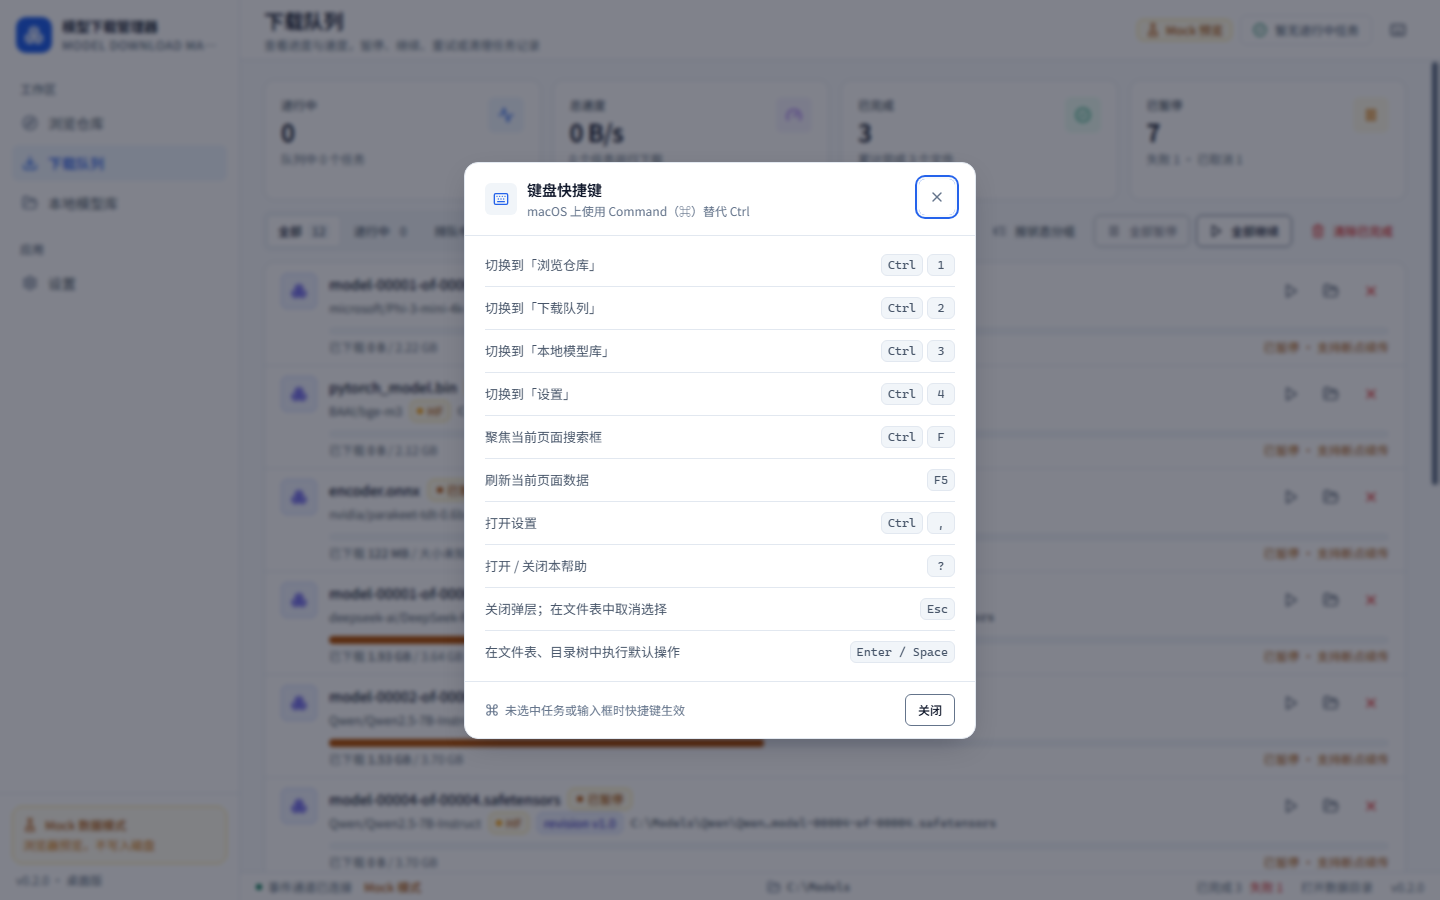
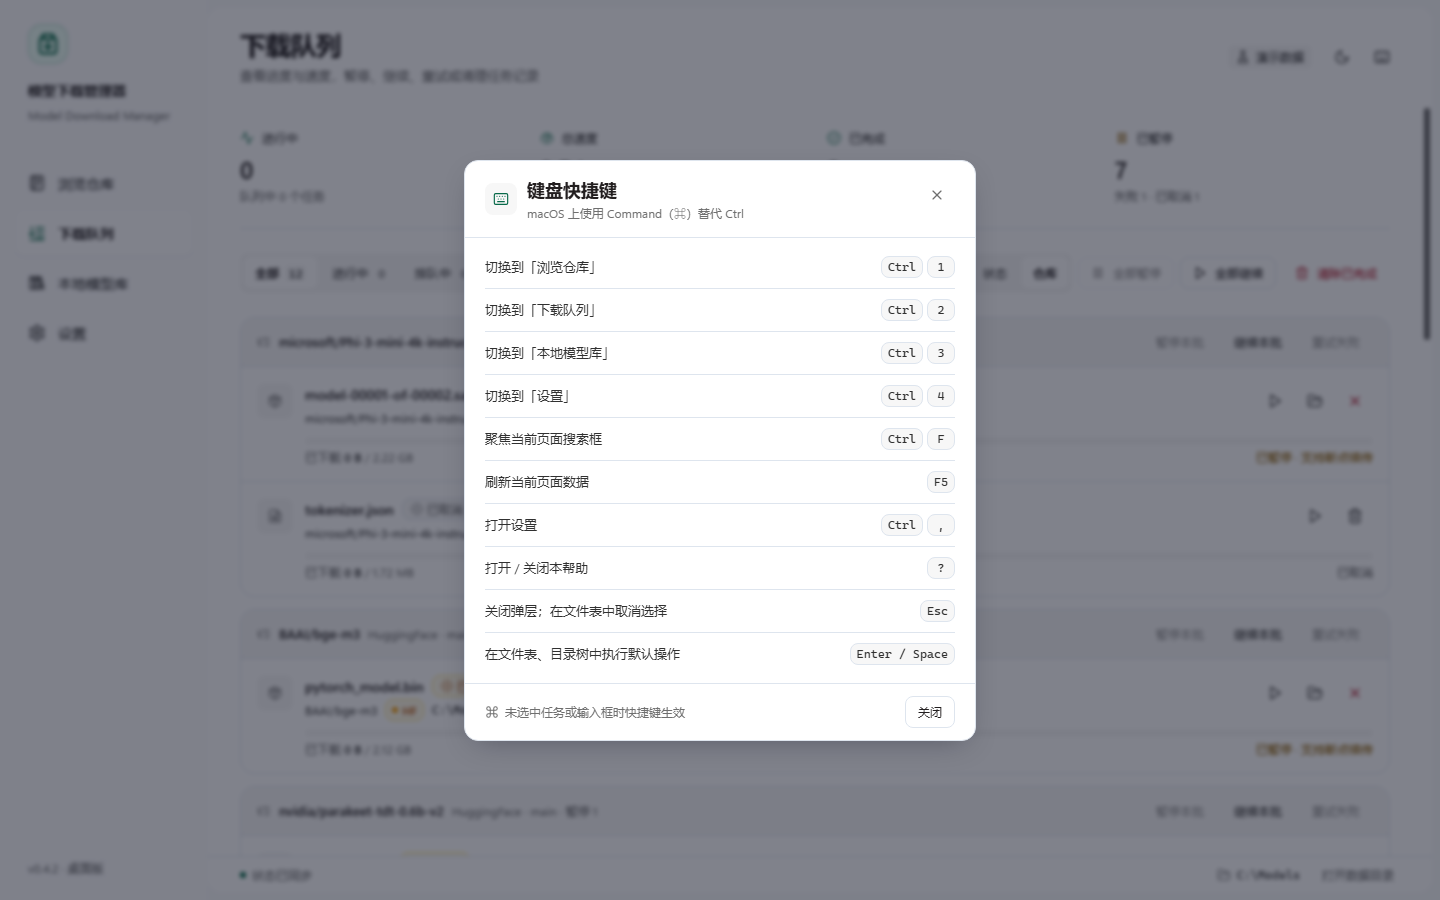
Refresh the public screenshots for the v0.4.2 palette.

diff --git a/src/mocks/fixtures.ts b/src/mocks/fixtures.ts
@@ -14,7 +14,7 @@ import type {
 } from '../types'
 import { defaultRevisionFor } from '../lib/format'
 
-export const MOCK_APP_VERSION = '0.3.0'
+export const MOCK_APP_VERSION = '0.4.2'
 export const MOCK_DATA_DIR = 'C:\\DemoAppData\\com.modeldownload.manager'
 export const MOCK_DEFAULT_DOWNLOAD_DIR = 'C:\\Models'
 /** v0.2.0：多扫描根验收用的附加根目录（仅 ?mock=1&multiroot=1 时写入 settings.libraryRoots）。 */

diff --git a/PRODUCT.md b/PRODUCT.md
@@ -33,7 +33,7 @@ Tauri 2 包装的 React/TypeScript 界面；Windows 优先。默认窗口 1320×
 
 ## Evidence on Hand
 
-README.md、docs/IPC-CONTRACT.md、现有源代码和 DESIGN.md。docs/screenshots 采集于 v0.4.2 配色更新之前，只说明布局。Mock 数据为演示数据，不得当成用户模型库或真实下载结果。
+README.md、docs/IPC-CONTRACT.md、现有源代码和 DESIGN.md。docs/screenshots 由浏览器 Mock 模式生成，展示当前界面，使用演示数据，不得当成用户模型库或真实下载结果。
 
 ## Product Principles
 
